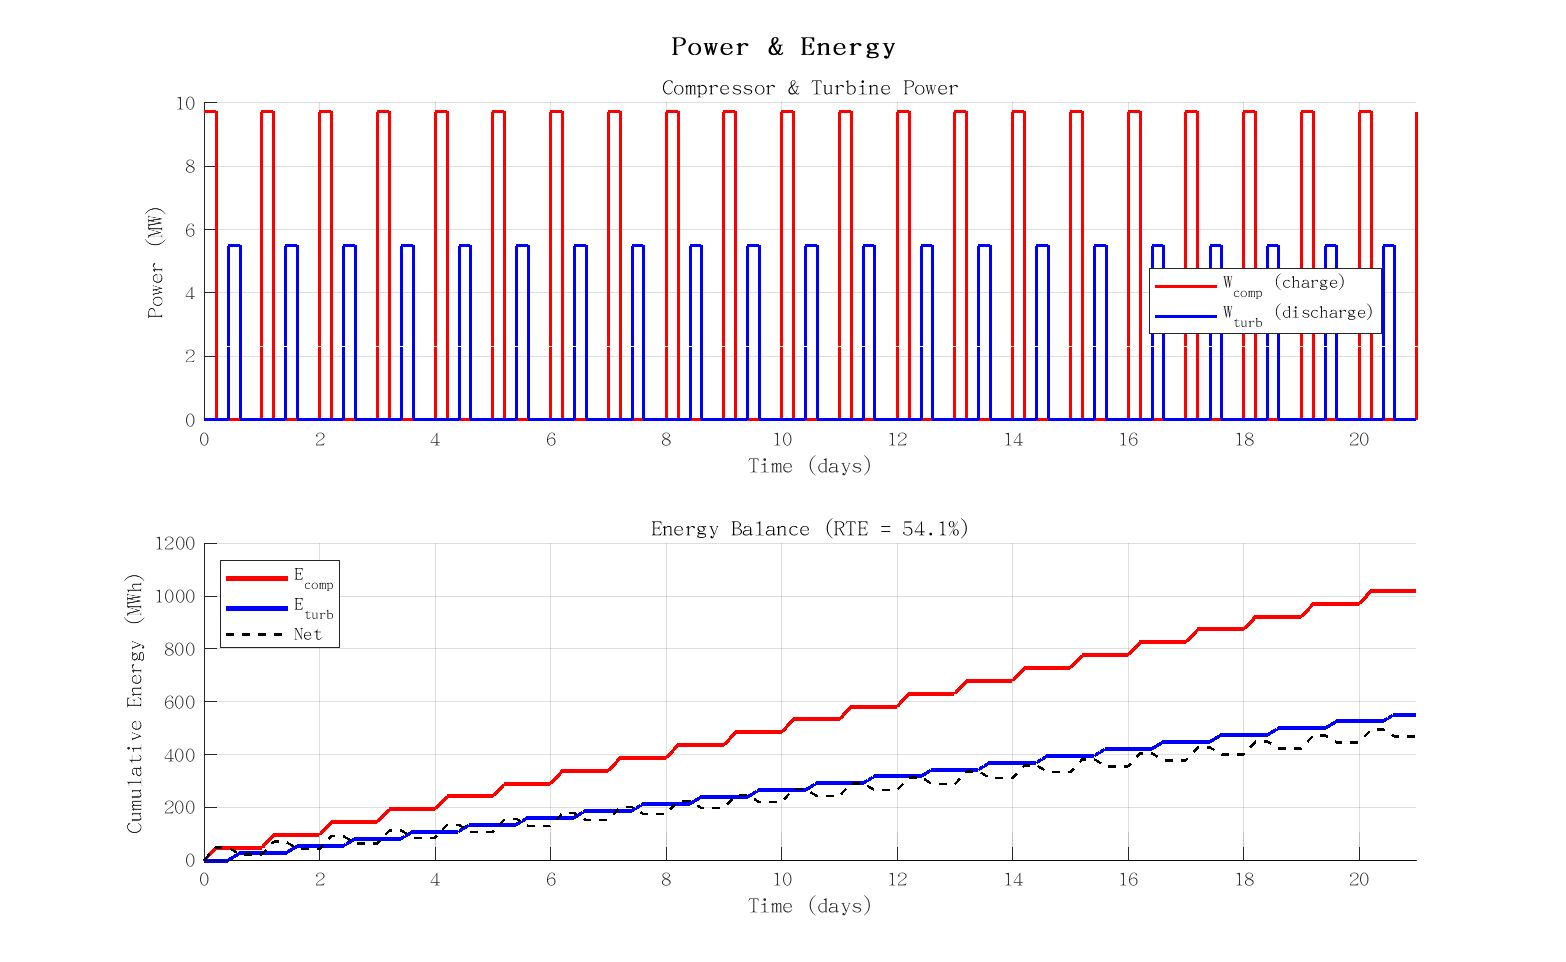
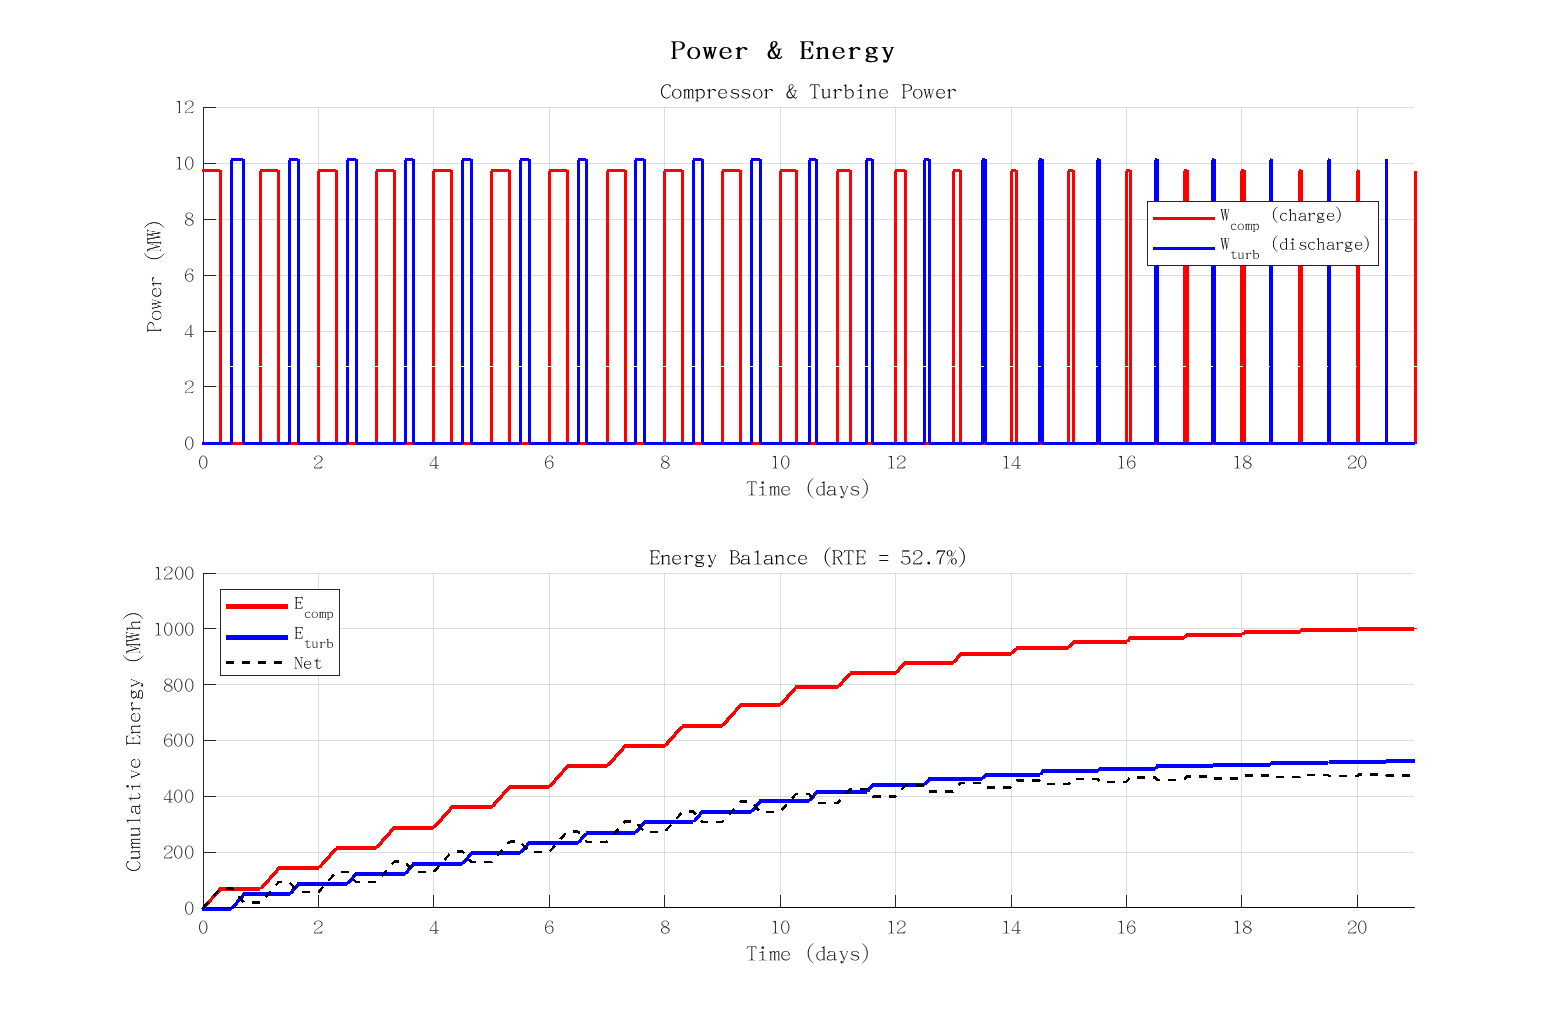
fix: remove stale charge/discharge time print in run script

diff --git a/CCES_CHP_Simulink/src/ode/ode_dynamics.m b/CCES_CHP_Simulink/src/ode/ode_dynamics.m
@@ -1,24 +1,25 @@
 function [dx, W_comp, Q_IC, W_turb, Q_HR, T_heat, mode] = ode_dynamics(t, x)
-% HPT + 双罐导热油HTV (Th=410K热平衡点, 同α→质量平衡)
-% x(1)=m_HPT, x(2)=V_hot, x(3)=T_tank
-persistent lib Fluid T_sat_vec P_sat_vec V_HPT rho_cp T_hot T_cold V_total alpha
+% HPT + 双罐HTV (充电8h固定, 放电时长可调)
+% x(1)=m_HPT [kg], x(2)=V_hot [m³], x(3)=T_tank [K]
+persistent lib Fluid T_sat_vec P_sat_vec V_HPT rho_cp T_hot T_cold V_total a_ch a_dis Wc Wt t_chg t_disch
 
 if isempty(lib)
     addpath(fullfile(fileparts(mfilename('fullpath')), '..', '..'));
-    cfg = config_paths();  lib = cfg.REFPROP_LIB;  Fluid = 'CO2';
-    V_HPT=6228;  T_hot=405;  T_cold=298;  rho_cp=850*2.5;
+    cfg=config_paths(); lib=cfg.REFPROP_LIB; Fluid='CO2';
+    V_HPT=6228; T_hot=483; T_cold=298; rho_cp=850*2.5;
     V_total=150*3600*1000/(rho_cp*(T_hot-T_cold));
     T_sat_vec=(260:0.5:304)'; P_sat_vec=zeros(size(T_sat_vec));
     for i=1:length(T_sat_vec)
         P_sat_vec(i)=getFP(lib,'P','T',T_sat_vec(i),'Q',0,Fluid);
     end
-    alpha=2.744;
-    fprintf('双罐HTV: Th=%.0fK V=%.0fm3 a=%.3f (qHR≈qIC→热平衡+质量平衡)\n',T_hot,V_total,alpha);
+    a_ch=2.744; a_dis=4.117; Wc=9.74; Wt=10.12;
+    t_chg=8.0; t_disch=4.0;  % 充电8h, 放电4h (可调)
+    fprintf('HTV: Th=%.0fK V=%.0fm3 | 充电%.1fh 放电%.1fh\n',T_hot,V_total,t_chg,t_disch);
 end
 
 m_HPT=x(1); V_hot=max(0,min(V_total,x(2))); T_tank=x(3);
 
-% HPT两相压力
+% HPT压力
 Tc=max(260,min(304,T_tank)); Ps=interp1(T_sat_vec,P_sat_vec,Tc,'linear');
 rl=getFP(lib,'D','T',Tc,'Q',0,Fluid); rv=getFP(lib,'D','T',Tc,'Q',1,Fluid);
 msl=rl*V_HPT; msv=rv*V_HPT;
@@ -27,24 +28,28 @@ elseif m_HPT>msv*.05, P_MPa=Ps/1e6;
 else,                 P_MPa=m_HPT*188.9*T_tank/V_HPT/1e6;
 end
 
-% 调度 5h/5h
-t_h=mod(t/3600,24);
-if t_h<5; mode=1; elseif t_h<10; mode=0; elseif t_h<15; mode=-1; else; mode=0; end
+% 调度
+t_h=mod(t/3600,24);  t_idle=(24-t_chg-t_disch)/2;
+if t_h<t_chg; mode=1;
+elseif t_h<t_chg+t_idle; mode=0;
+elseif t_h<t_chg+t_idle+t_disch; mode=-1;
+else; mode=0;
+end
 
-P_ok_ch=m_HPT<msl*.995;  P_ok_dis=m_HPT>msv*1.05;
-Q_ok_ch=V_hot<V_total*.90;  Q_ok_dis=V_hot>V_total*.10;
+P_ok_ch=m_HPT<msl*.995; P_ok_dis=m_HPT>msv*1.05;
+Q_ok_ch=V_hot<V_total*.90; Q_ok_dis=V_hot>V_total*.10;
 T_heat=T_hot;
 
 if mode==1 && P_ok_ch && Q_ok_ch
-    m_dot=alpha*10;  [w_c_kJ,q_IC_kJ]=charge_per_kg(lib,Fluid);
-    dm_HPT=m_dot;  Q_IC=q_IC_kJ*m_dot/1000;
-    dV_hot=Q_IC*1000/(rho_cp*(T_hot-T_cold));
-    dT_tank=(298-T_tank)/600;  W_comp=m_dot*w_c_kJ/1000; W_turb=0; Q_HR=0;
+    m_dot=a_ch*Wc; dm_HPT=m_dot;
+    [~,q_IC_kJ]=charge_per_kg(lib,Fluid);
+    Q_IC_MW=q_IC_kJ*m_dot/1000; dV_hot=Q_IC_MW*1000/(rho_cp*(T_hot-T_cold));
+    dT_tank=(298-T_tank)/600; W_comp=Wc; Q_IC=Q_IC_MW; W_turb=0; Q_HR=0;
 elseif mode==-1 && P_ok_dis && Q_ok_dis
-    [w_t_kJ,q_HR_kJ]=discharge_per_kg(lib,Fluid,T_tank,T_heat);
-    m_dot=alpha*10;  dm_HPT=-m_dot;  Q_HR=q_HR_kJ*m_dot/1000;
-    dV_hot=-Q_HR*1000/(rho_cp*(T_hot-T_cold));
-    dT_tank=-m_dot*3e-5;  W_comp=0; Q_IC=0; W_turb=m_dot*w_t_kJ/1000;
+    m_dot=a_dis*Wt; dm_HPT=-m_dot;
+    [~,q_HR_kJ]=discharge_per_kg(lib,Fluid,T_tank,T_heat);
+    Q_HR_MW=q_HR_kJ*m_dot/1000; dV_hot=-Q_HR_MW*1000/(rho_cp*(T_hot-T_cold));
+    dT_tank=-m_dot*3e-5; W_comp=0; Q_IC=0; W_turb=Wt; Q_HR=Q_HR_MW;
 else
     dm_HPT=0; dV_hot=0; dT_tank=(298-T_tank)/50000;
     W_comp=0; Q_IC=0; W_turb=0; Q_HR=0;
@@ -62,7 +67,7 @@ if isempty(wc)
     s3=getFP(lib,'S','T',308,'P',0.85e6,Fluid);
     h4is=getFP(lib,'H','P',6.90e6,'S',s3,Fluid); h4=h3+(h4is-h3)/eta_c;
     h5=getFP(lib,'H','T',309,'P',6.85e6,Fluid);
-    wc=(h2-h1+h4-h3)/1000;  qic=(h2-h3+h4-h5)/1000;
+    wc=(h2-h1+h4-h3)/1000; qic=(h2-h3+h4-h5)/1000;
 end
 w_comp=wc; q_IC=qic;
 end

diff --git a/CCES_CHP_Simulink/src/ode/run_ode_simulation.m b/CCES_CHP_Simulink/src/ode/run_ode_simulation.m
@@ -29,7 +29,7 @@ x0 = [m_HPT_0; V_hot_0; T_tank_0];
 
 %% 仿真
 dt = 180;  t_sim = 21 * 86400;  tspan = 0:dt:t_sim;
-fprintf('CCES-CHP ODE仿真 (21天, 双罐HTV): 充电7.5h 放电5h\n');
+fprintf('CCES-CHP ODE仿真 (21天): 见 ode_dynamics 内打印\n');
 
 opts = odeset('RelTol', 2e-4, 'MaxStep', 900);
 [t, x] = ode45(@ode_dynamics, tspan, x0, opts);
